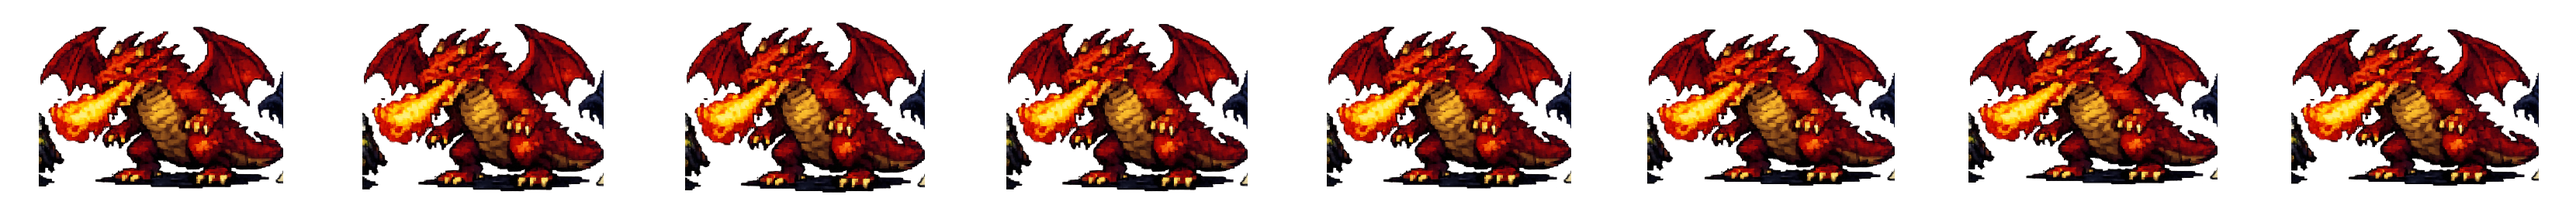
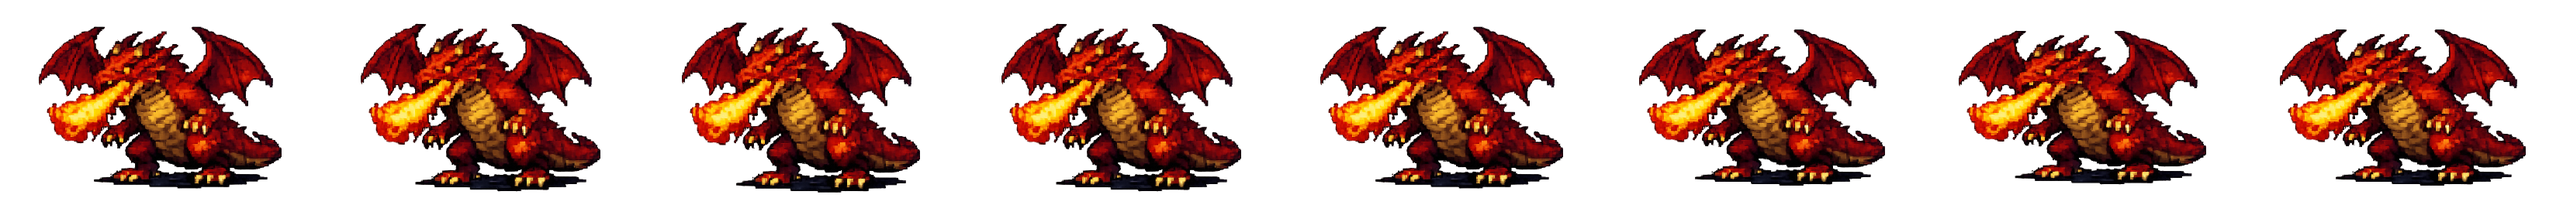
Dungeon background + clean monster sprites (remove decorations)
- Add dungeon.js: overrides the night-sky background with a stone-brick dungeon
  corridor — mossy bricks, a back arch for depth, flagstone floor, and two
  flickering wall torches with warm glow + vignette. Loaded after sprites.js.
- Rework make-mobs.mjs to isolate each monster with connected-component
  labelling: only the largest blob is kept, so detached swords, flags and stray
  artifacts are cropped out (slime corner bit, ghost's sword/banner, orc flag
  all gone). ghost.png cleanly splits into ghost + skeleton. Regenerated strips.

verify7 and the full suite still pass.

Claude-Session: https://claude.ai/code/session_0137Kmgx8usseqRPpPc7daxH

diff --git a/dungeon.js b/dungeon.js
@@ -1,0 +1,102 @@
+/* ============================================================================
+   Dungeon background — overrides Sprites.drawBackground with a stone-brick
+   dungeon corridor (mossy walls, arch, flagstone floor, flickering torches).
+   Loaded after sprites.js so it replaces the night-sky background.
+   ========================================================================== */
+'use strict';
+(function () {
+  // stable pseudo-random per tile (so stones don't flicker frame to frame)
+  function hash(a, b){ let h = (a * 73856093 ^ b * 19349663) >>> 0; return (h % 1000) / 1000; }
+
+  function drawTorch(ctx, x, y, time){
+    // wrought-iron bracket
+    ctx.fillStyle = '#241a10'; ctx.fillRect(x-2, y, 4, 16);
+    ctx.fillStyle = '#3a2a16'; ctx.fillRect(x-5, y+13, 10, 4);
+    // warm glow on the wall
+    const fl = 0.72 + 0.22*Math.sin(time/90) + 0.12*Math.sin(time/37 + x);
+    let g = ctx.createRadialGradient(x, y-6, 2, x, y-6, 86);
+    g.addColorStop(0, 'rgba(255,186,86,'+(0.34*fl)+')');
+    g.addColorStop(1, 'rgba(255,140,40,0)');
+    ctx.fillStyle = g; ctx.beginPath(); ctx.arc(x, y-6, 86, 0, 7); ctx.fill();
+    // flame
+    ctx.save(); ctx.globalCompositeOperation = 'lighter';
+    const cols = ['#ff6a12', '#ffab3c', '#ffe38a'];
+    for (let i = 0; i < 3; i++){
+      const fy = y - 6 - i*5;
+      const fw = (7 - i*2) + Math.sin(time/60 + i)*1.6;
+      ctx.fillStyle = cols[i];
+      ctx.beginPath();
+      ctx.ellipse(x + Math.sin(time/70 + i)*1.4, fy, Math.max(1, fw*0.55), Math.max(2,(10 - i*2))*fl, 0, 0, 7);
+      ctx.fill();
+    }
+    ctx.restore();
+  }
+
+  function drawBackground(ctx, w, h, time){
+    const floorY = Math.round(h * 0.72);
+
+    // base
+    ctx.fillStyle = '#181c15'; ctx.fillRect(0, 0, w, h);
+
+    // ---- brick wall ----
+    const bw = 46, bh = 22;
+    for (let ry = 0, r = 0; ry < floorY; ry += bh, r++){
+      const off = (r % 2) ? bw/2 : 0;
+      for (let x = -off; x < w; x += bw){
+        const n = hash(r, Math.round(x/bw));
+        const b = 56 + n*26;                    // stone brightness (greenish grey)
+        ctx.fillStyle = `rgb(${Math.round(b*0.74)},${Math.round(b*0.84)},${Math.round(b*0.68)})`;
+        ctx.fillRect(x+1, ry+1, bw-2, bh-2);
+        ctx.fillStyle = 'rgba(255,255,235,0.05)';  // top bevel
+        ctx.fillRect(x+1, ry+1, bw-2, 2);
+        ctx.fillStyle = 'rgba(0,0,0,0.18)';        // bottom shade
+        ctx.fillRect(x+1, ry+bh-3, bw-2, 2);
+        if (n > 0.86){ ctx.fillStyle = 'rgba(70,104,52,0.55)'; ctx.fillRect(x+2, ry+bh-6, bw-4, 5); } // moss
+      }
+    }
+
+    // ---- back arch (depth) ----
+    const ax = Math.round(w*0.5), aw = Math.min(220, w*0.26), ah = floorY*0.86;
+    ctx.save();
+    ctx.beginPath();
+    ctx.moveTo(ax-aw/2, floorY);
+    ctx.lineTo(ax-aw/2, floorY-ah*0.55);
+    ctx.arc(ax, floorY-ah*0.55, aw/2, Math.PI, 0);
+    ctx.lineTo(ax+aw/2, floorY);
+    ctx.closePath();
+    let ag = ctx.createLinearGradient(0, floorY-ah, 0, floorY);
+    ag.addColorStop(0, '#0c0f0a'); ag.addColorStop(1, '#050704');
+    ctx.fillStyle = ag; ctx.fill();
+    ctx.lineWidth = 5; ctx.strokeStyle = '#2c322a'; ctx.stroke();
+    ctx.lineWidth = 2; ctx.strokeStyle = 'rgba(120,140,105,0.25)'; ctx.stroke();
+    ctx.restore();
+
+    // ---- flagstone floor ----
+    ctx.fillStyle = '#20241c'; ctx.fillRect(0, floorY, w, h-floorY);
+    const fh = 20;
+    for (let y = floorY+2, r = 0; y < h; y += fh, r++){
+      const off = (r % 2) ? 24 : 0;
+      for (let x = -off; x < w; x += 48){
+        const n = hash(900+r, Math.round(x/48));
+        ctx.fillStyle = `rgb(${Math.round(30+n*16)},${Math.round(34+n*16)},${Math.round(26+n*12)})`;
+        ctx.fillRect(x+1, y+1, 46, fh-2);
+        if (n > 0.88){ ctx.fillStyle = 'rgba(70,104,52,0.4)'; ctx.fillRect(x+2, y+2, 12, 4); }
+      }
+    }
+    // floor lip
+    ctx.fillStyle = '#0e110b'; ctx.fillRect(0, floorY-2, w, 3);
+    ctx.fillStyle = 'rgba(150,170,130,0.16)'; ctx.fillRect(0, floorY+1, w, 2);
+
+    // ---- torches ----
+    drawTorch(ctx, Math.round(w*0.20), Math.round(floorY*0.42), time);
+    drawTorch(ctx, Math.round(w*0.78), Math.round(floorY*0.42), time);
+
+    // ---- vignette ----
+    const vg = ctx.createRadialGradient(w/2, h*0.5, h*0.32, w/2, h*0.5, h*0.9);
+    vg.addColorStop(0, 'rgba(0,0,0,0)'); vg.addColorStop(1, 'rgba(0,0,0,0.42)');
+    ctx.fillStyle = vg; ctx.fillRect(0, 0, w, h);
+  }
+
+  if (window.Sprites) window.Sprites.drawBackground = drawBackground;
+  window.drawDungeon = drawBackground;
+})();

diff --git a/index.html b/index.html
@@ -134,6 +134,7 @@
 </div>
 
 <script src="sprites.js"></script>
+<script src="dungeon.js"></script>
 <script src="sheets.js"></script>
 <script src="audio.js"></script>
 <script src="game.js"></script>
